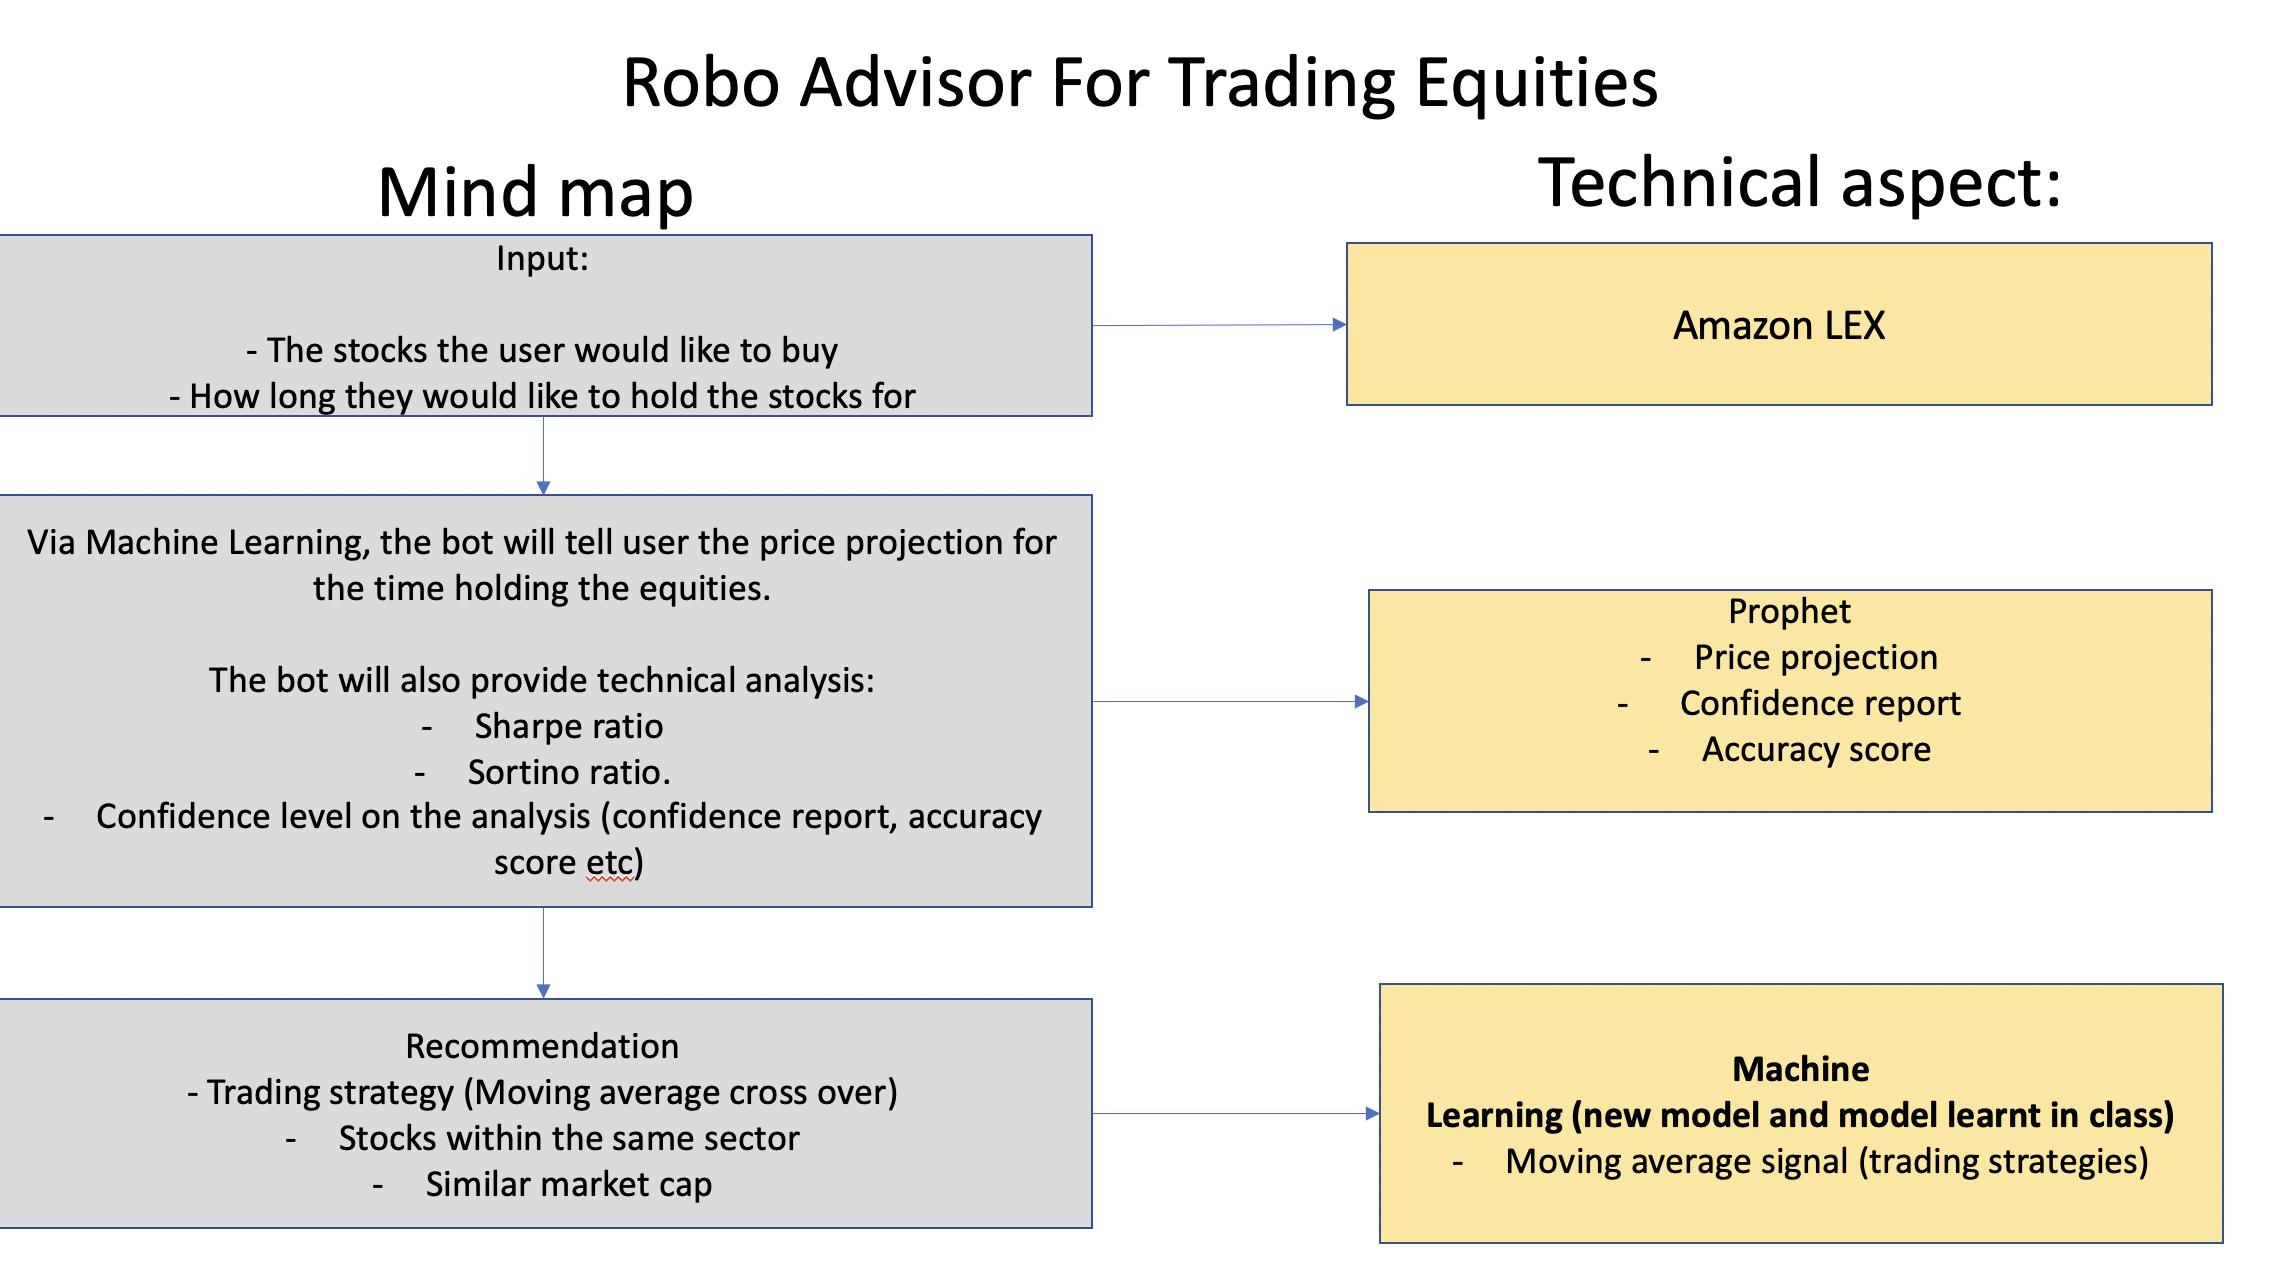
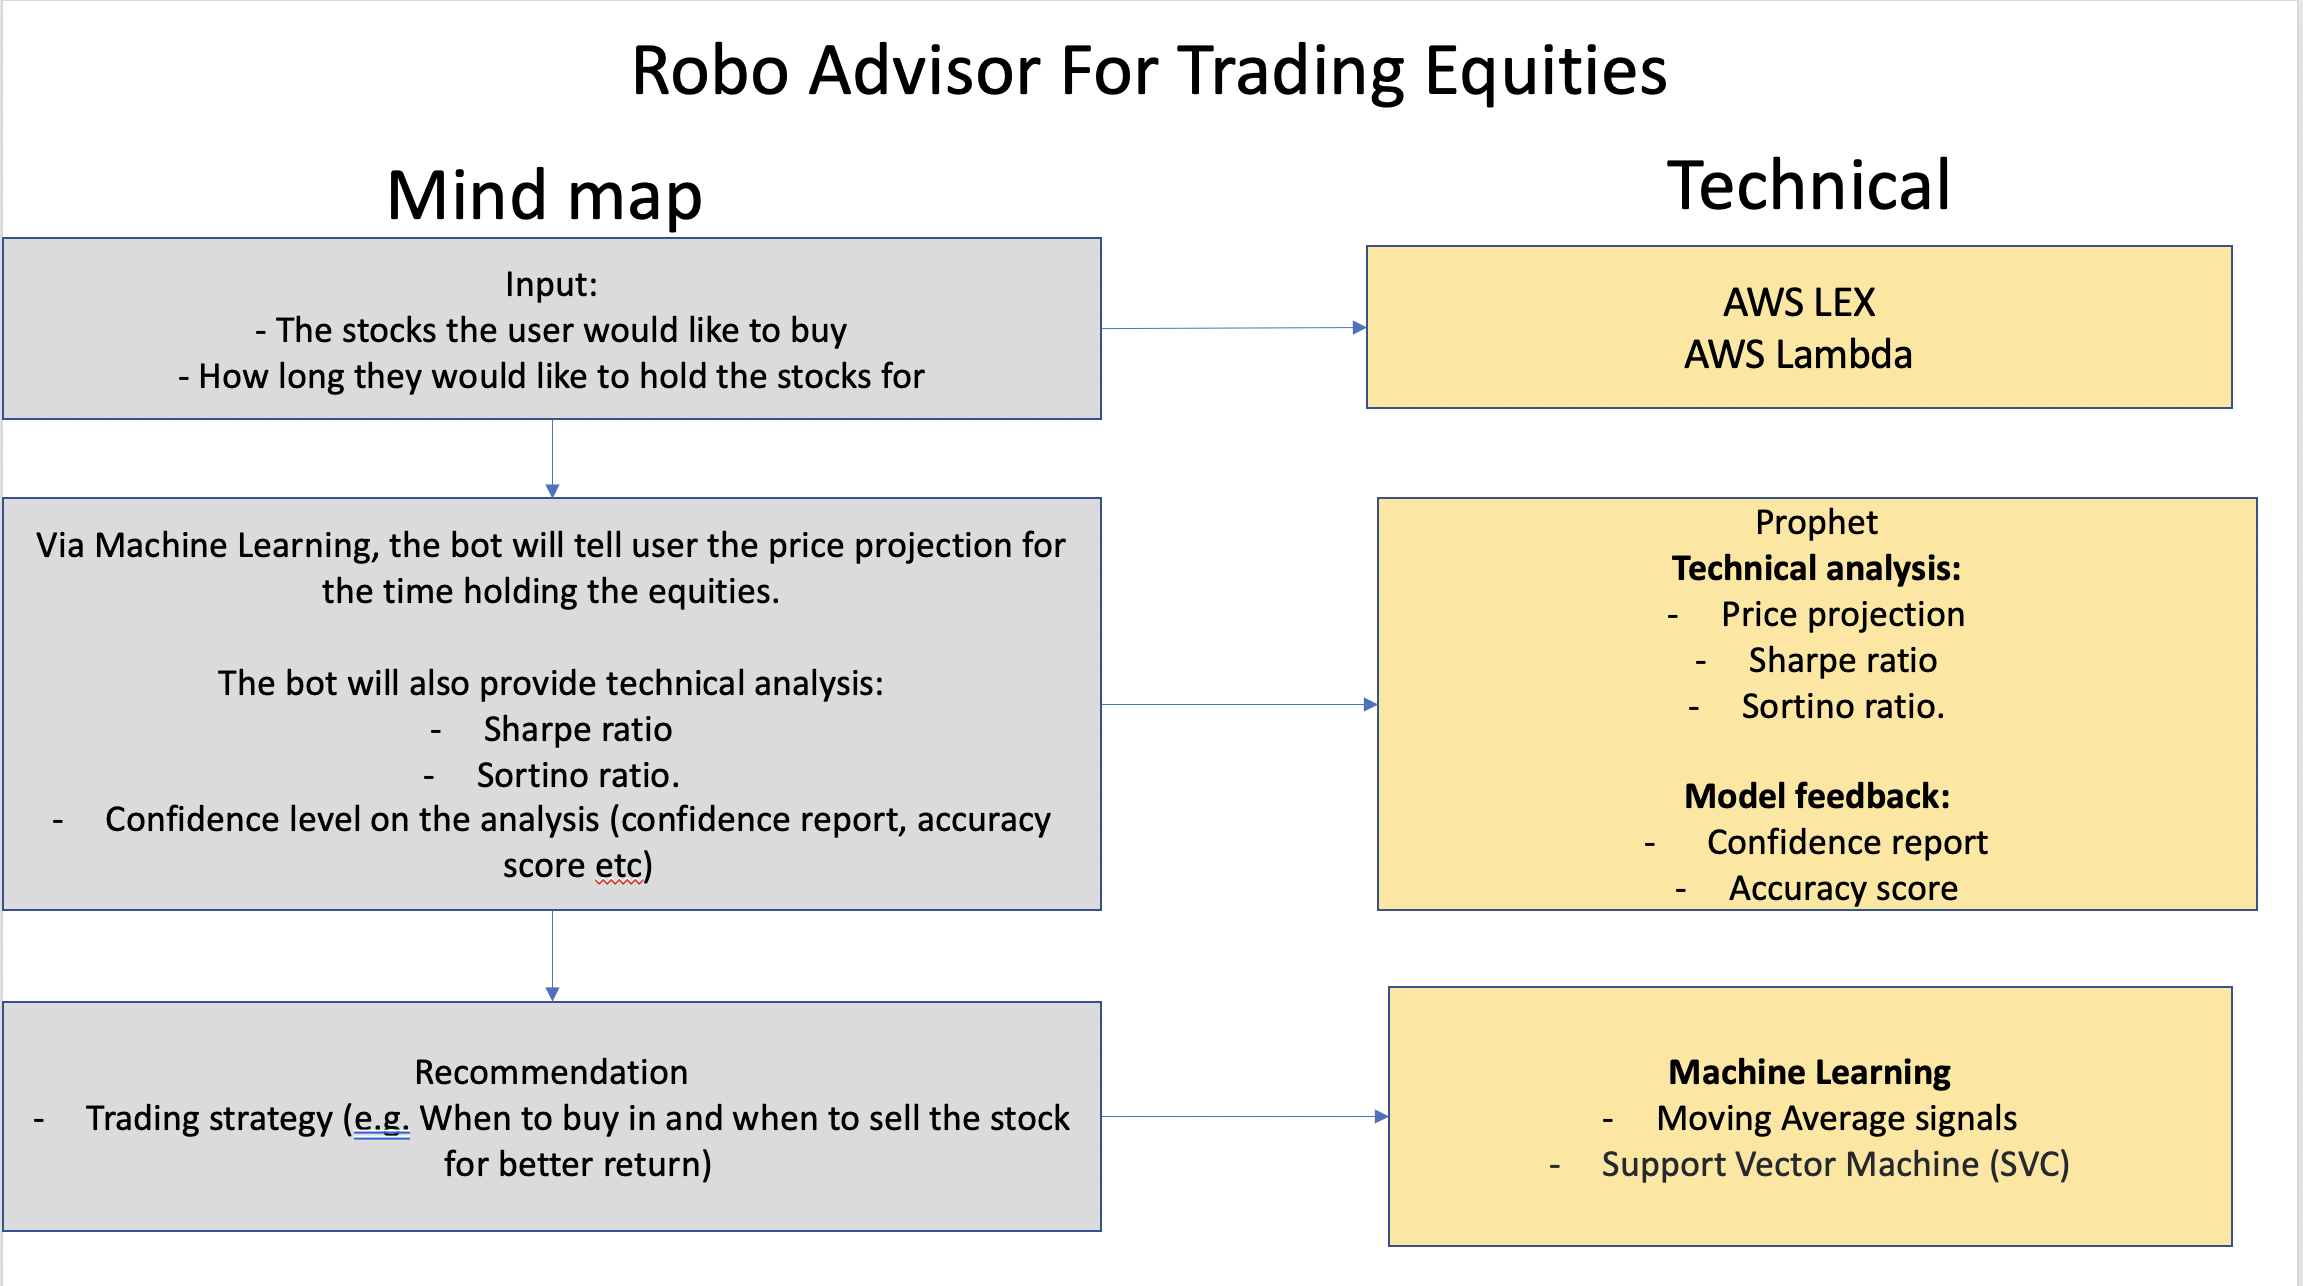
README draft

diff --git a/README.md b/README.md
@@ -1,13 +1,63 @@
-# Robo advisor for trading equities
+# Robo Advisor for Trading equities 
 
-We are building a robo-advisor using LEX to provide assistance in trading equities on NASDAQ:
-- The robo advisor will ask the user which stock they would like to buy and for how long are they planning to hold
-- Based on the response, using Prophet the advisor will provide an estimate for the stock price in the given time period and will provide other stas like sharpe and sortino ratios
-- Next the robo advisor will suggest to the user similar equities (i.e from the same sector) with better performance and/or better risk 
+## Overview
 
-## If time allows 
-We can add a prediction using different trading strategy for the stock (i.e bollinger bands, MA crossover etc.)
+### This robo advisor helps individuals with trading equities. Some features of this robo advisors are:
+
+
+### - Interactions with the users 
+### - Future stock prices forecast 
+### - Provide technical analysis about the stock performance and the risks (Sharpe ratios & Sortino Ratio)  
+### - Recommendations which includes trading strategies 
 
 <br>
 
-![](./Resources/mindmap.png)
+### An overview of the project: 
+<p align="center">
+  <img width="600" height="350" src="./Resources/mindmap.png">
+</p>
+---
+
+<br>
+
+## User instruction
+
+<br>
+
+
+### 1. Access AWS LEX bots 
+
+
+### 2. Choose stock and holding period 
+
+
+### 3. View results 
+
+<br>
+
+### Installation guide: 
+
+--- 
+<br>
+
+## Example: 
+<br>
+
+> ### ***Sam wants to invest in APPLE (stock code: AAPL) and he wants to hold the stock for 3 months. As an investor, Sam would like to get a good understanding about his investment idea. Sam would like to know th following:***
+> <br>
+
+> ### 1. What is the investment return after 12 months? 
+> ### 2. How confident is robo advisor with the suggested return?  
+> ### 3. How are the risks?  
+> ### 4. Is there a way to improve the investment return results?
+> <br>
+
+> ###             ***The robo advisor can answer ALL!*** 
+
+<br>
+
+### Step 1: Input stock code and holding period to Robo Advisor. 
+
+![]()
+
+### Step 2: View 

diff --git a/Resources/README.md b/Resources/README.md
@@ -1,0 +1,13 @@
+# Robo advisor for trading equities
+
+We are building a robo-advisor using LEX to provide assistance in trading equities on NASDAQ:
+- The robo advisor will ask the user which stock they would like to buy and for how long are they planning to hold
+- Based on the response, using Prophet the advisor will provide an estimate for the stock price in the given time period and will provide other stas like sharpe and sortino ratios
+- Next the robo advisor will suggest to the user similar equities (i.e from the same sector) with better performance and/or better risk 
+
+## If time allows 
+We can add a prediction using different trading strategy for the stock (i.e bollinger bands, MA crossover etc.)
+
+<br>
+
+![](./Resources/mindmap.png)
